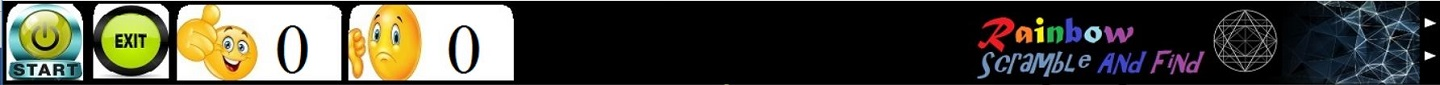
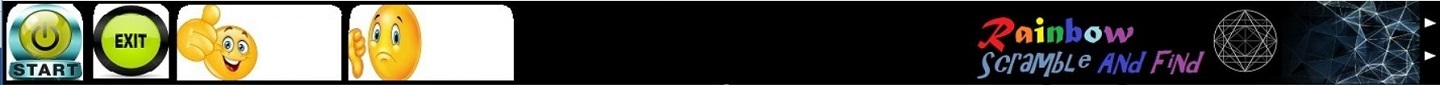
Last fixes for disscution

Changed region(s): [[0.3125, 0.3059, 0.3438, 0.8706], [0.1875, 0.3059, 0.2188, 0.8706]]

diff --git a/PT-CMPN103/ApplicationManager.cpp b/PT-CMPN103/ApplicationManager.cpp
@@ -815,6 +815,7 @@ void ApplicationManager::StartNewScrambleGame()
 		
 			pOut->ClearStatusBar();
 		pOut->StartScrambleGame();
+		pOut->getWindow()->DrawImage("images\\PlayMenuItems\\ScrambleAndFind\\blockfig.jpg", 0, 0, 1440, 85);
 		pOut->getWindow()->SetFont(80, NONE, ROMAN, PLAIN);
 		pOut->getWindow()->SetPen(BLACK, 2);
 		pOut->getWindow()->DrawInteger(2 * UI.MenuItemWidth + 100, 10, Right);
